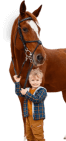
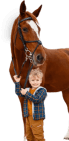
refactor: Modify background behavior

diff --git a/index.html b/index.html
@@ -267,7 +267,7 @@
 			</div>
 		</section>
 		<section class="clubDirection">
-			<div class="clubDirection_bg_container">
+			<div>
 				<picture>
 					<source srcset="img/clubDirection/clubDirectionBG/x1920/sky_x1920.png" type="image/jpeg"
 						media="(min-width:1920px)">
@@ -304,6 +304,36 @@
 					<img class="clubDirection_bg_clouds_botom"
 						src="img/clubDirection/clubDirectionBG/x320/clouds_bottom_x320.png" alt="Облака снизу">
 				</picture>
+				<div class="bg_horses">
+					<div class="horse_left">
+						<picture>
+							<source srcset="img/clubDirection/clubDirectionBG/x1920/girlOnHorseLeft_x1920.png"
+								type="image/jpeg" media="(min-width:1920px)">
+							<source srcset="img/clubDirection/clubDirectionBG/x1000/girlOnHorseLeft_x1000.png"
+								type="image/jpeg" media="(min-width:1000px)">
+							<source srcset="img/clubDirection/clubDirectionBG/x768/girlOnHorseLeft_x768.png"
+								type="image/jpeg" media="(min-width:768px)">
+							<source srcset="img/clubDirection/clubDirectionBG/x480/girlOnHorseLeft_x480.png"
+								type="image/jpeg" media="(min-width:480px)">
+							<img horse_left_img src="img/clubDirection/clubDirectionBG/x320/girlOnHorseLeft_x320.png"
+								alt="Девушка на лошади">
+						</picture>
+					</div>
+					<div class="horse_right">
+						<picture>
+							<source srcset="img/clubDirection/clubDirectionBG/x1920/boyOnHorseRight_x1920.png"
+								type="image/jpeg" media="(min-width:1920px)">
+							<source srcset="img/clubDirection/clubDirectionBG/x1000/boyOnHorseRight_x1000.png"
+								type="image/jpeg" media="(min-width:1000px)">
+							<source srcset="img/clubDirection/clubDirectionBG/x768/boyOnHorseRight_x768.png"
+								type="image/jpeg" media="(min-width:768px)">
+							<source srcset="img/clubDirection/clubDirectionBG/x480/boyOnHorseRight_x480.png"
+								type="image/jpeg" media="(min-width:480px)">
+							<img horse_right_img src="img/clubDirection/clubDirectionBG/x320/boyOnHorseRight_x320.png"
+								alt="Мальчик на лошади">
+						</picture>
+					</div>
+				</div>
 			</div>
 			<div class="clubDirection__container _container">
 				<div class="clubDirection__title title_every">
@@ -399,34 +429,6 @@
 				<button class="clubDirection__button button popup-link">
 					записаться
 				</button>
-				<div class="horse_left">
-					<picture>
-						<source srcset="img/clubDirection/clubDirectionBG/x1920/girlOnHorseLeft_x1920.png"
-							type="image/jpeg" media="(min-width:1920px)">
-						<source srcset="img/clubDirection/clubDirectionBG/x1000/girlOnHorseLeft_x1000.png"
-							type="image/jpeg" media="(min-width:1000px)">
-						<source srcset="img/clubDirection/clubDirectionBG/x768/girlOnHorseLeft_x768.png"
-							type="image/jpeg" media="(min-width:768px)">
-						<source srcset="img/clubDirection/clubDirectionBG/x480/girlOnHorseLeft_x480.png"
-							type="image/jpeg" media="(min-width:480px)">
-						<img src="img/clubDirection/clubDirectionBG/x320/girlOnHorseLeft_x320.png"
-							alt="Девушка на лошади">
-					</picture>
-				</div>
-				<div class="horse_right">
-					<picture>
-						<source srcset="img/clubDirection/clubDirectionBG/x1920/boyOnHorseRight_x1920.png"
-							type="image/jpeg" media="(min-width:1920px)">
-						<source srcset="img/clubDirection/clubDirectionBG/x1000/boyOnHorseRight_x1000.png"
-							type="image/jpeg" media="(min-width:1000px)">
-						<source srcset="img/clubDirection/clubDirectionBG/x768/boyOnHorseRight_x768.png"
-							type="image/jpeg" media="(min-width:768px)">
-						<source srcset="img/clubDirection/clubDirectionBG/x480/boyOnHorseRight_x480.png"
-							type="image/jpeg" media="(min-width:480px)">
-						<img src="img/clubDirection/clubDirectionBG/x320/boyOnHorseRight_x320.png"
-							alt="Мальчик на лошади">
-					</picture>
-				</div>
 			</div>
 		</section>
 		<section class="ourVisitors">

diff --git a/css/clubDirection.css b/css/clubDirection.css
@@ -2,14 +2,6 @@
 	position: relative;
 }
 
-.clubDirection_bg_container {
-	position: absolute;
-	top: 0;
-	left: 0;
-	width: 100%;
-	height: 100%;
-}
-
 .clubDirection_bg_grass {
 	position: absolute;
 	bottom: 41px;
@@ -91,6 +83,113 @@
 	.clubDirection_bg_clouds_botom {
 		bottom: 0;
 	}
+}
+
+@media (min-width: 1920px) {
+	.bg_horses {
+		position: absolute;
+		width: 1920px;
+		height: 100%;
+		left: 0;
+		right: 0;
+		margin: auto;
+	}
+}
+
+.horse_left {
+	position: absolute;
+	z-index: 1;
+	left: 0;
+	bottom: 69px;
+	width: 63px;
+	height: 149px;
+}
+
+@media (min-width: 480px) {
+	.horse_left {
+		bottom: 66px;
+		width: 107px;
+		height: 196px;
+	}
+}
+
+@media (min-width: 768px) {
+	.horse_left {
+		left: 7px;
+		bottom: 25px;
+		width: 157px;
+		height: 272px;
+	}
+}
+
+@media (min-width: 1000px) {
+	.horse_left {
+		left: 0;
+		bottom: 20px;
+		width: 202px;
+		height: 350px;
+	}
+}
+
+@media (min-width: 1920px) {
+	.horse_left {
+		left: 138px;
+		bottom: 39px;
+		width: 305px;
+		height: 530px;
+	}
+}
+
+.horse_left_img {
+	width: 100%;
+	height: 100%;
+}
+
+.horse_right {
+	position: absolute;
+	z-index: 1;
+	right: 0;
+	bottom: 77px;
+	width: 66px;
+	height: 141px;
+}
+
+@media (min-width: 480px) {
+	.horse_right {
+		bottom: 63px;
+		width: 93px;
+		height: 199px;
+	}
+}
+
+@media (min-width: 768px) {
+	.horse_right {
+		bottom: 37px;
+		width: 174px;
+		height: 270px;
+	}
+}
+
+@media (min-width: 1000px) {
+	.horse_right {
+		bottom: 28px;
+		width: 224px;
+		height: 342px;
+	}
+}
+
+@media (min-width: 1920px) {
+	.horse_right {
+		right: 83px;
+		bottom: 30px;
+		width: 372px;
+		height: 532px;
+	}
+}
+
+.horse_right_img {
+	width: 100%;
+	height: 100%;
 }
 
 .clubDirection__container {
@@ -415,69 +514,5 @@
 @media (min-width: 1920px) {
 	.clubDirection__button {
 		margin: 50px auto 0;
-	}
-}
-
-.horse_left {
-	position: absolute;
-	left: 0;
-	bottom: 69px;
-}
-
-@media (min-width: 480px) {
-	.horse_left {
-		bottom: 66px;
-	}
-}
-
-@media (min-width: 768px) {
-	.horse_left {
-		left: 7px;
-		bottom: 25px;
-	}
-}
-
-@media (min-width: 1000px) {
-	.horse_left {
-		left: 0;
-		bottom: 20px;
-	}
-}
-
-@media (min-width: 1920px) {
-	.horse_left {
-		left: -238px;
-		bottom: 39px;
-	}
-}
-
-.horse_right {
-	position: absolute;
-	right: 0;
-	bottom: 77px;
-}
-
-@media (min-width: 480px) {
-	.horse_right {
-		bottom: 63px;
-	}
-}
-
-@media (min-width: 768px) {
-	.horse_right {
-		bottom: 37px;
-	}
-}
-
-@media (min-width: 1000px) {
-	.horse_right {
-		bottom: 28px;
-	}
-}
-
-@media (min-width: 1920px) {
-	.horse_right {
-		right: -291px;
-		bottom: 30px;
 	}
 }
